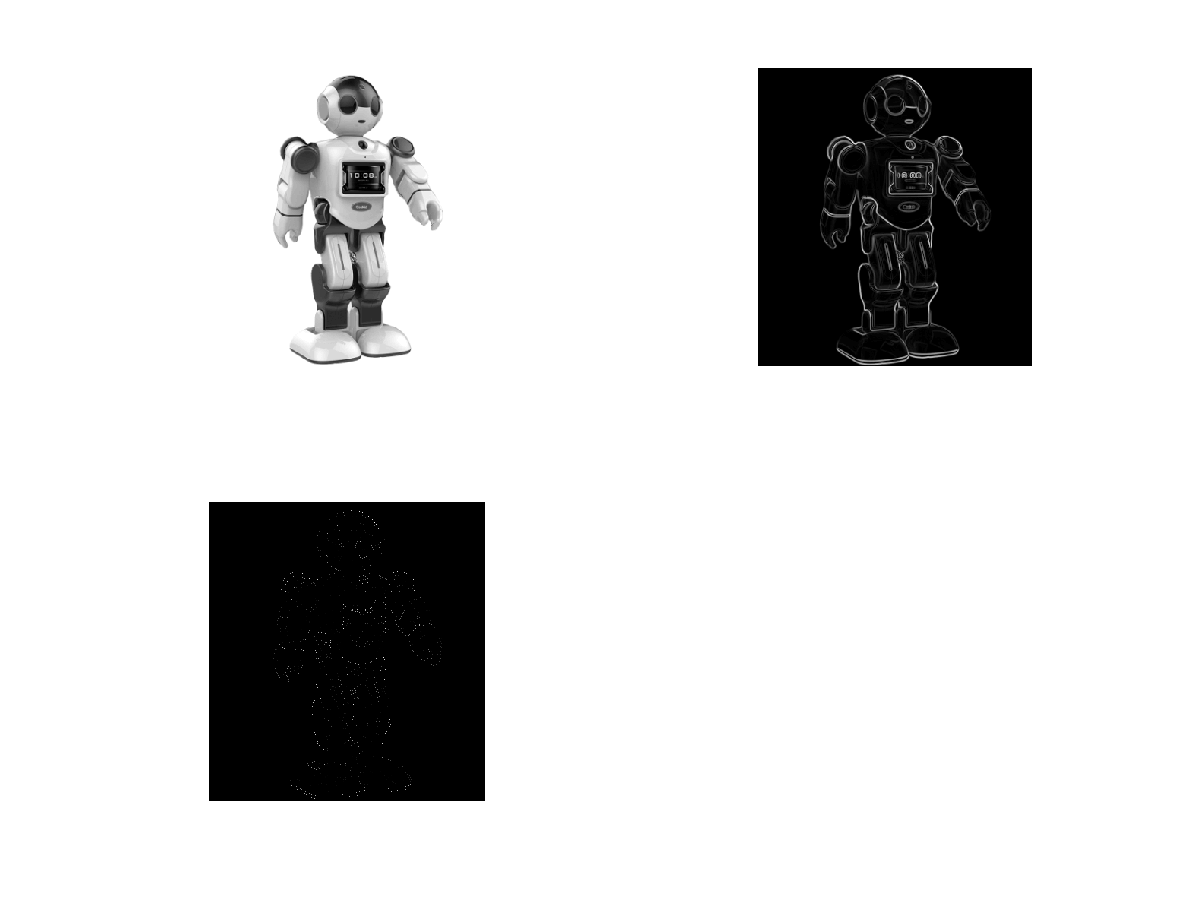
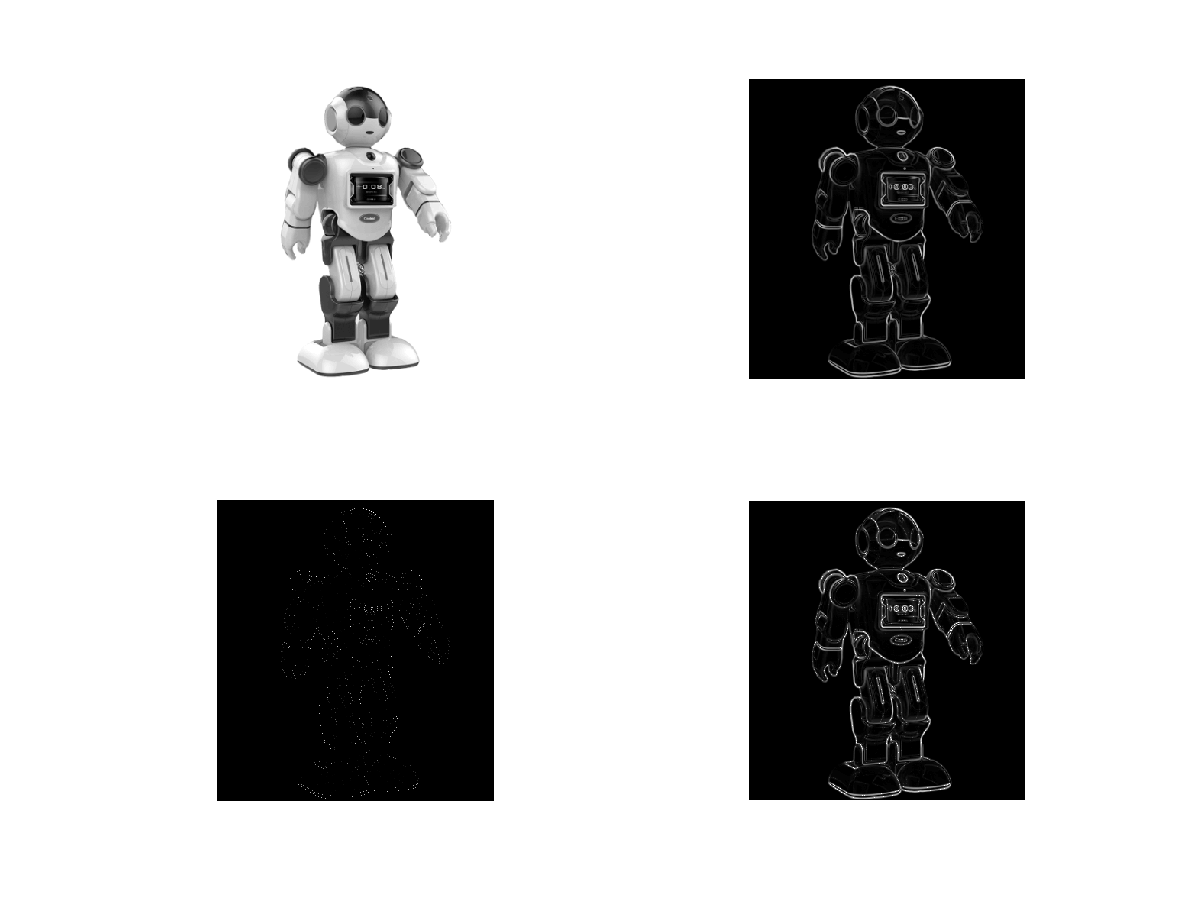
fertig

diff --git a/I3DCV_Exercise_2/A3_exercises.m b/I3DCV_Exercise_2/A3_exercises.m
@@ -1,72 +1,72 @@
 function A3_exercises
   
-  function res_img = supress_non_maxima( img, conv_size_2D )
+  function res_img = supress_non_maxima( img, radius_vector )
     
     res_img = zeros(size(img));
     img_y_size = size(img)(1);
     img_x_size = size(img)(2);
     
-    radius_y = (conv_size_2D(1) - 1)/2; 
-    radius_x = (conv_size_2D(2) - 1)/2;
+    radius_y = radius_vector(1); 
+    radius_x = radius_vector(2);
     
     img_with_0frame = zeros(img_y_size+2*radius_y,img_x_size+2*radius_x);
     
+    % using indexes to navigate inside img_with_0frame, 
+    % without touching thezero frame:
     start_index_y = radius_y+1; 
     start_index_x = radius_x+1; 
     end_index_y = (radius_y+img_y_size);
     end_index_x = (radius_x+img_x_size);
     
+    % filling the inner part of img_with_0frame with the original img:
     img_with_0frame(start_index_y:end_index_y,start_index_x:end_index_x) = img;
    
+   % go through the inner part of img_with_0frame:
     for y = start_index_y:end_index_y
       for x = start_index_x:end_index_x
-        
-        #neighbours = [];
-        #for i = -radius_y:radius_y
-       #   neighbours = [neighbours, img_with_0frame(y+i,(x-radius_x):(x+radius_x)) ];
-       # endfor
-        
+
+        % get neighbours (including "myself")
         neighbours = img_with_0frame((y-radius_y):(y+radius_y),(x-radius_x):(x+radius_x));
         
-        %don't want to count myself to the neighbours:
-        neighbours(y,x)=0;
+        %don't want to count myself to the neighbours, so lets delete myself:
+        neighbours(radius_y+1,radius_x+1)=0;
+        
+        %find the highest value in the neighbourhood:
         greatest_neighbour = max(max(neighbours));
         
+        % if we can beat the greatest neighbour, we finaly won, and get not deleted!
         if(img_with_0frame(y,x) > greatest_neighbour)
-            res_img()
+            res_img(y-radius_y,x-radius_x)=img_with_0frame(y,x);
         endif
-
-      #  sorted_neighbourhood = sort(neighbours, "descend");
-        
-       # if ((img_with_0frame(y,x) == sorted_neighbourhood(1)) && (sorted_neighbourhood(1) > sorted_neighbourhood(2)))
-       #     res_img(y,x) = img_with_0frame(y,x);
-       # endif 
         
       endfor
     endfor
     
   endfunction
   
-  colored_img = imread('image.png');
-  grey_img = rgb2gray(colored_img);
+  img = imread('image.png');
+  img = rgb2gray(img);
   
-  G_x = conv2(grey_img,[ 3,0,-3; 10,0,-10; 3,0,-3]/16,"same");
-  G_y = conv2(grey_img,[ 3,10,3; 0,0,0; -3,-10,-3]/16,"same");
+  G_x = conv2(img,[ 3,0,-3; 10,0,-10; 3,0,-3]/16,"same");
+  G_y = conv2(img,[ 3,10,3; 0,0,0; -3,-10,-3]/16,"same");
   
   result_1 = uint8(sqrt( G_x.*G_x + G_y.*G_y ));
 
-  result_2 = uint8(supress_non_maxima(result_1,[3 3]));
+  result_2 = uint8(supress_non_maxima(result_1,[1 1]));
   
-  % PLot
+  % ----PLot----
   figure(1)
   subplot(2,2,1);
-  imshow(grey_img);
+  imshow(img);
   
   subplot(2,2,2);
   imshow(result_1);
   
   subplot(2,2,3);
   imshow(result_2);
+  
+  subplot(2,2,4);
+  imshow(result_2+result_1);
   
   print('A3_results.png');
   
